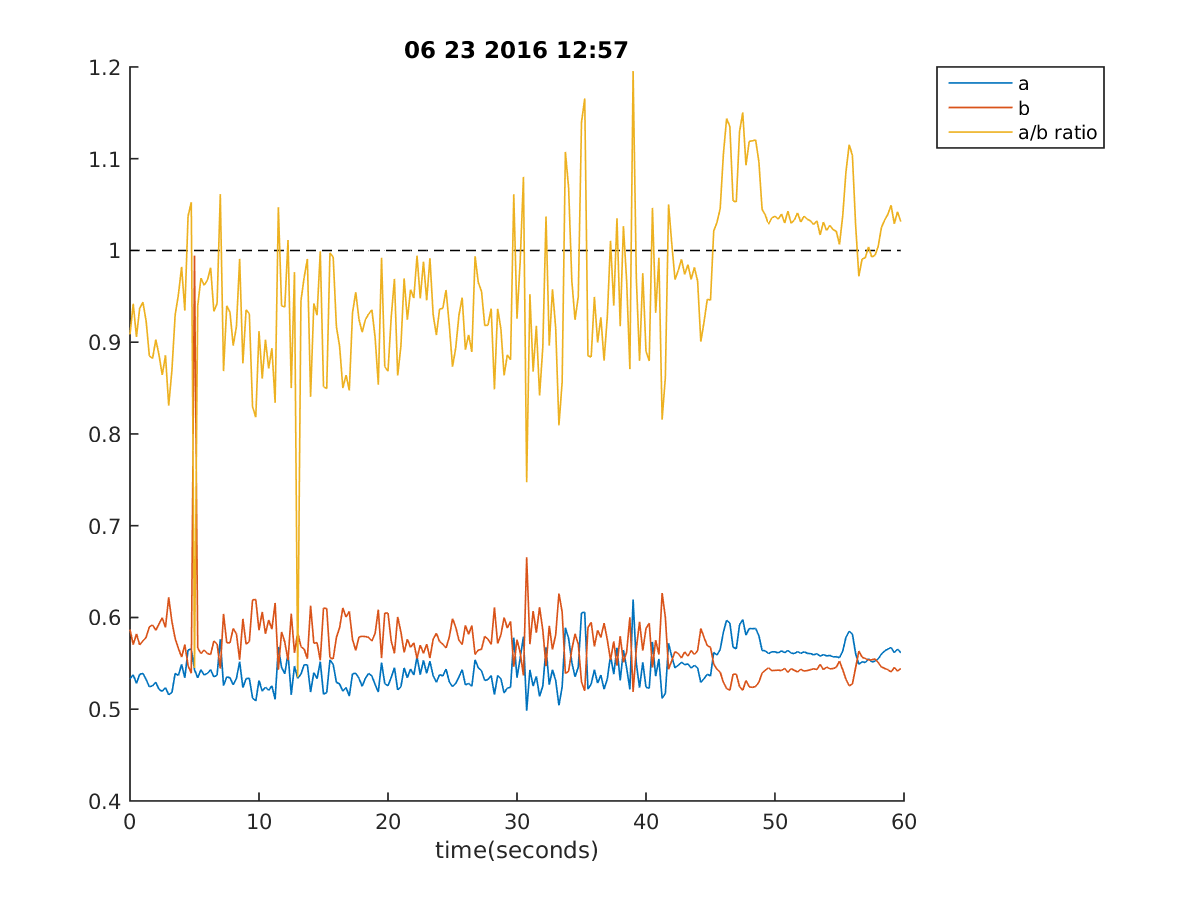
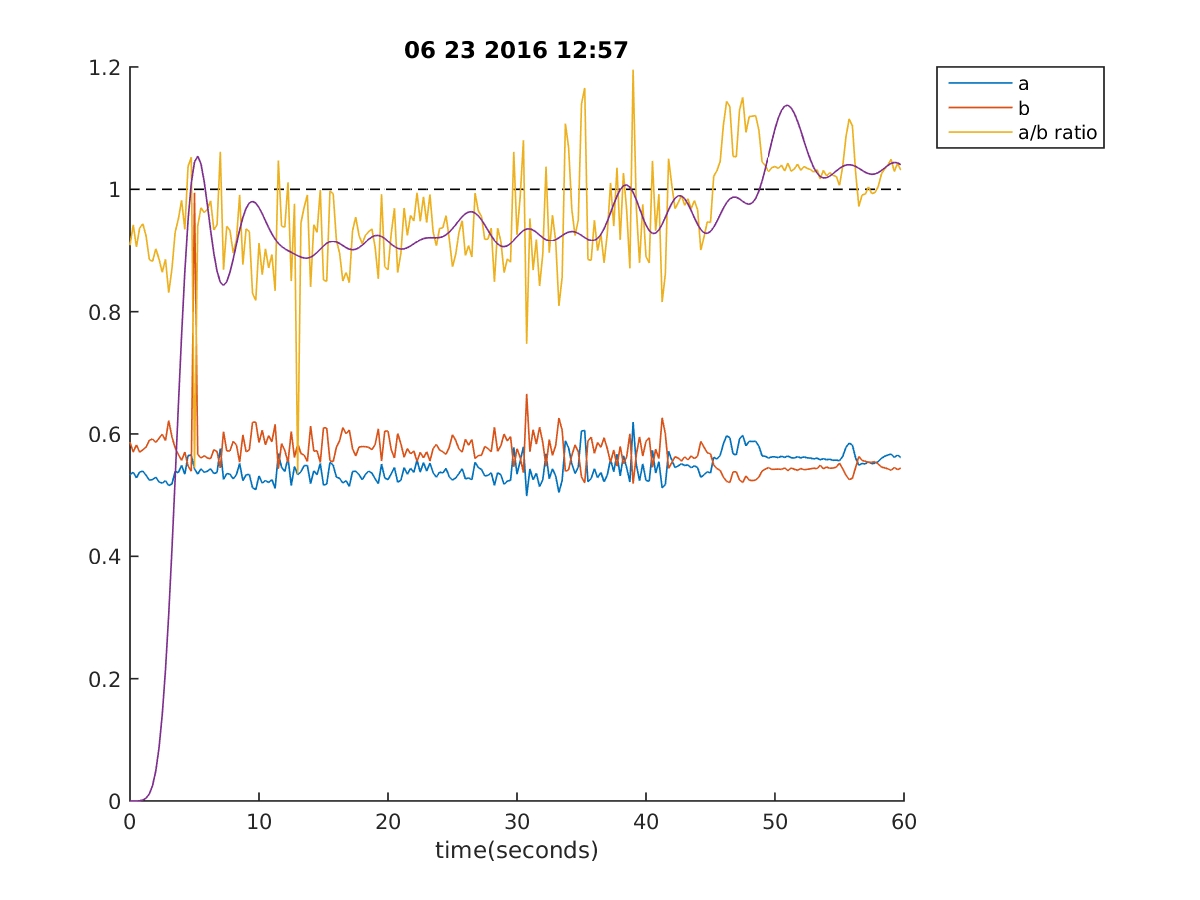
different A2D converter

Changed region(s): [[0.0617, 0.0933, 0.7708, 0.8089], [0.6475, 0.7156, 0.74, 0.7467], [0.0617, 0.8711, 0.1233, 0.9022]]

diff --git a/flex_sensor.py b/flex_sensor.py
@@ -2,15 +2,15 @@
 Code for reading from two flex sensors with an MCP3302 analog digital converter
 """
 from time import sleep
-from gpiozero import MCP3302
+from gpiozero import MCP3008
 from collections import deque
 
 
 class FlexSensor():
 
     def __init__(self):
-        self.a = MCP3302(channel=0)  # objects that access the flex sensor values through the adc
-        self.b = MCP3302(channel=1)
+        self.a = MCP3008(channel=0)  # objects that access the flex sensor values through the adc
+        self.b = MCP3008(channel=1)
         self.dratios = deque('', 15)  # deque, which is like a list but for queueing
         self.dfav = deque('', 15)
 

diff --git a/LuffRecords/Summer/plotter.m b/LuffRecords/Summer/plotter.m
@@ -8,6 +8,8 @@ a = A(:,1);
 b = A(:,2);
 ratios = A(:,3);
 
+filtered = Lowpass(ratios, 100)
+
 t = []
 for i = 0:length(a)-1
     t(i+1) = 1/4*i
@@ -21,6 +23,7 @@ p0 = plot(t, ones([1, length(a)]),'--k');
 p1 = plot(t, a);
 p2 = plot(t, b);
 p3 = plot(t, ratios);
+p4 = plot(t, filtered);
 
 l = legend([p1, p2, p3],'a', 'b', 'a/b ratio');
 l.Location = 'northeastoutside';
